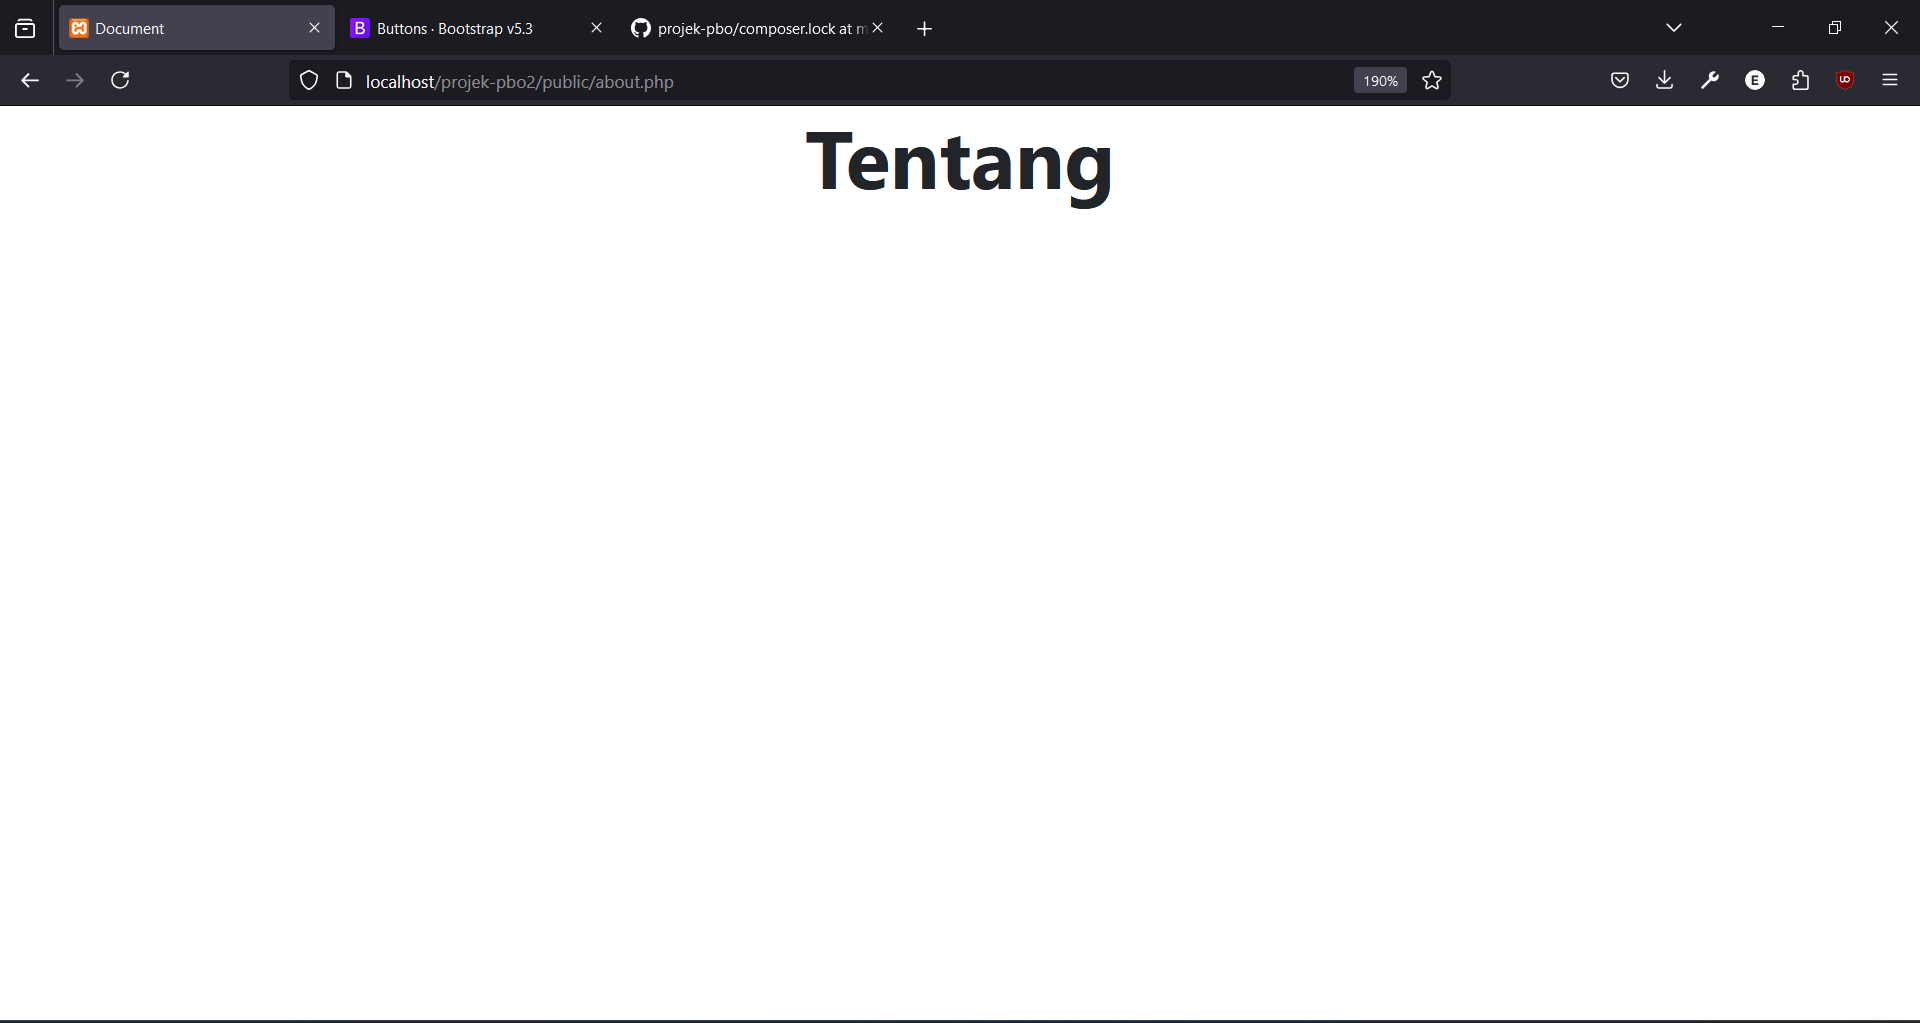
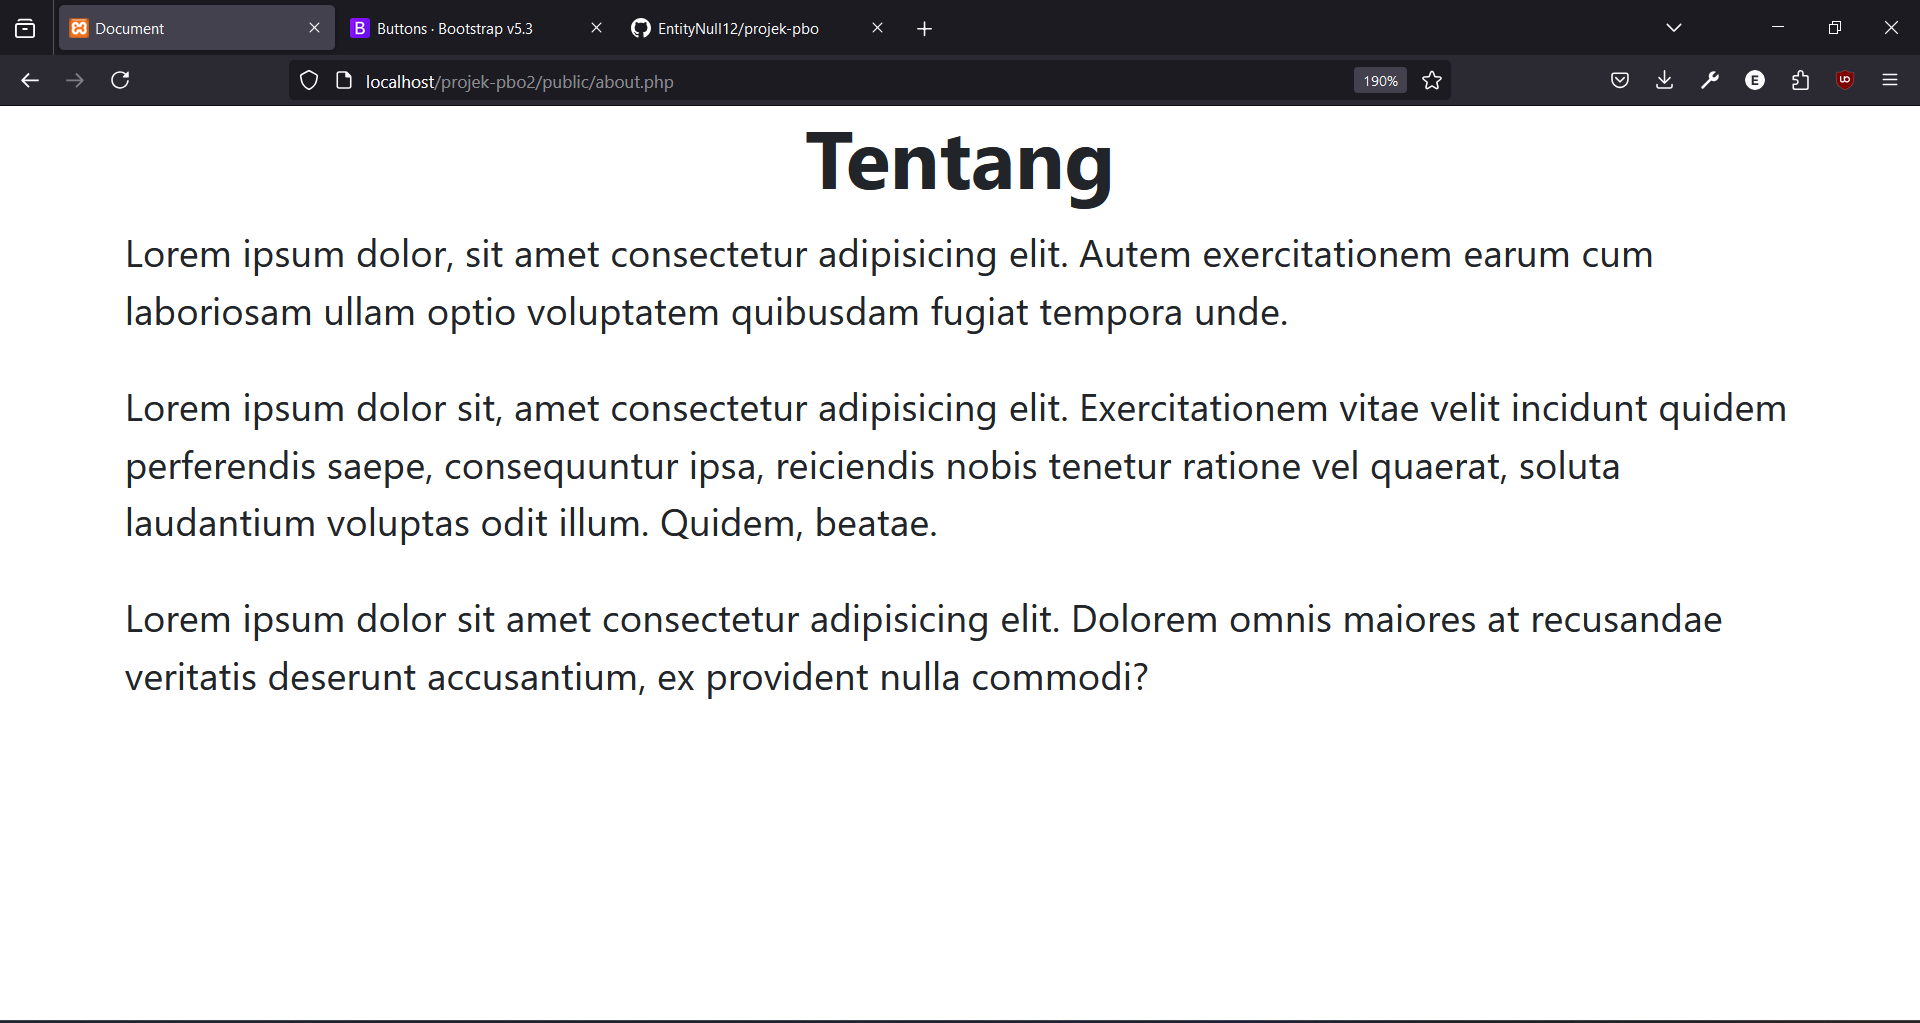
commit ketiga

diff --git a/public/about.php b/public/about.php
@@ -7,7 +7,10 @@
     <script type="text/javascript" src="../vendor/twbs/bootstrap/dist/js/bootstrap.min.js"></script>
     <link href="../vendor/twbs/bootstrap/dist/css/bootstrap.min.css" rel="stylesheet">
 </head>
-<body>
+<body class="container">
     <h1 class="fw-bold text-center">Tentang</h1>
+    <p>Lorem ipsum dolor, sit amet consectetur adipisicing elit. Autem exercitationem earum cum laboriosam ullam optio voluptatem quibusdam fugiat tempora unde.</p>
+    <p>Lorem ipsum dolor sit, amet consectetur adipisicing elit. Exercitationem vitae velit incidunt quidem perferendis saepe, consequuntur ipsa, reiciendis nobis tenetur ratione vel quaerat, soluta laudantium voluptas odit illum. Quidem, beatae.</p>
+    <p>Lorem ipsum dolor sit amet consectetur adipisicing elit. Dolorem omnis maiores at recusandae veritatis deserunt accusantium, ex provident nulla commodi?</p>
 </body>
 </html>

diff --git a/public/gallery.php b/public/gallery.php
@@ -9,5 +9,10 @@
 </head>
 <body>
     <h1 class="fw-bold text-center">galeri</h1>
+    <div class="d-flex">
+        <div><img src="img/791.jpg" class="img-fluid px-2 " alt=""></div>
+        <div><img src="img/791.jpg" class="img-fluid px-2 " alt=""></div>
+        <div><img src="img/791.jpg" class="img-fluid px-2 " alt=""></div>
+    </div>
 </body>
 </html>
